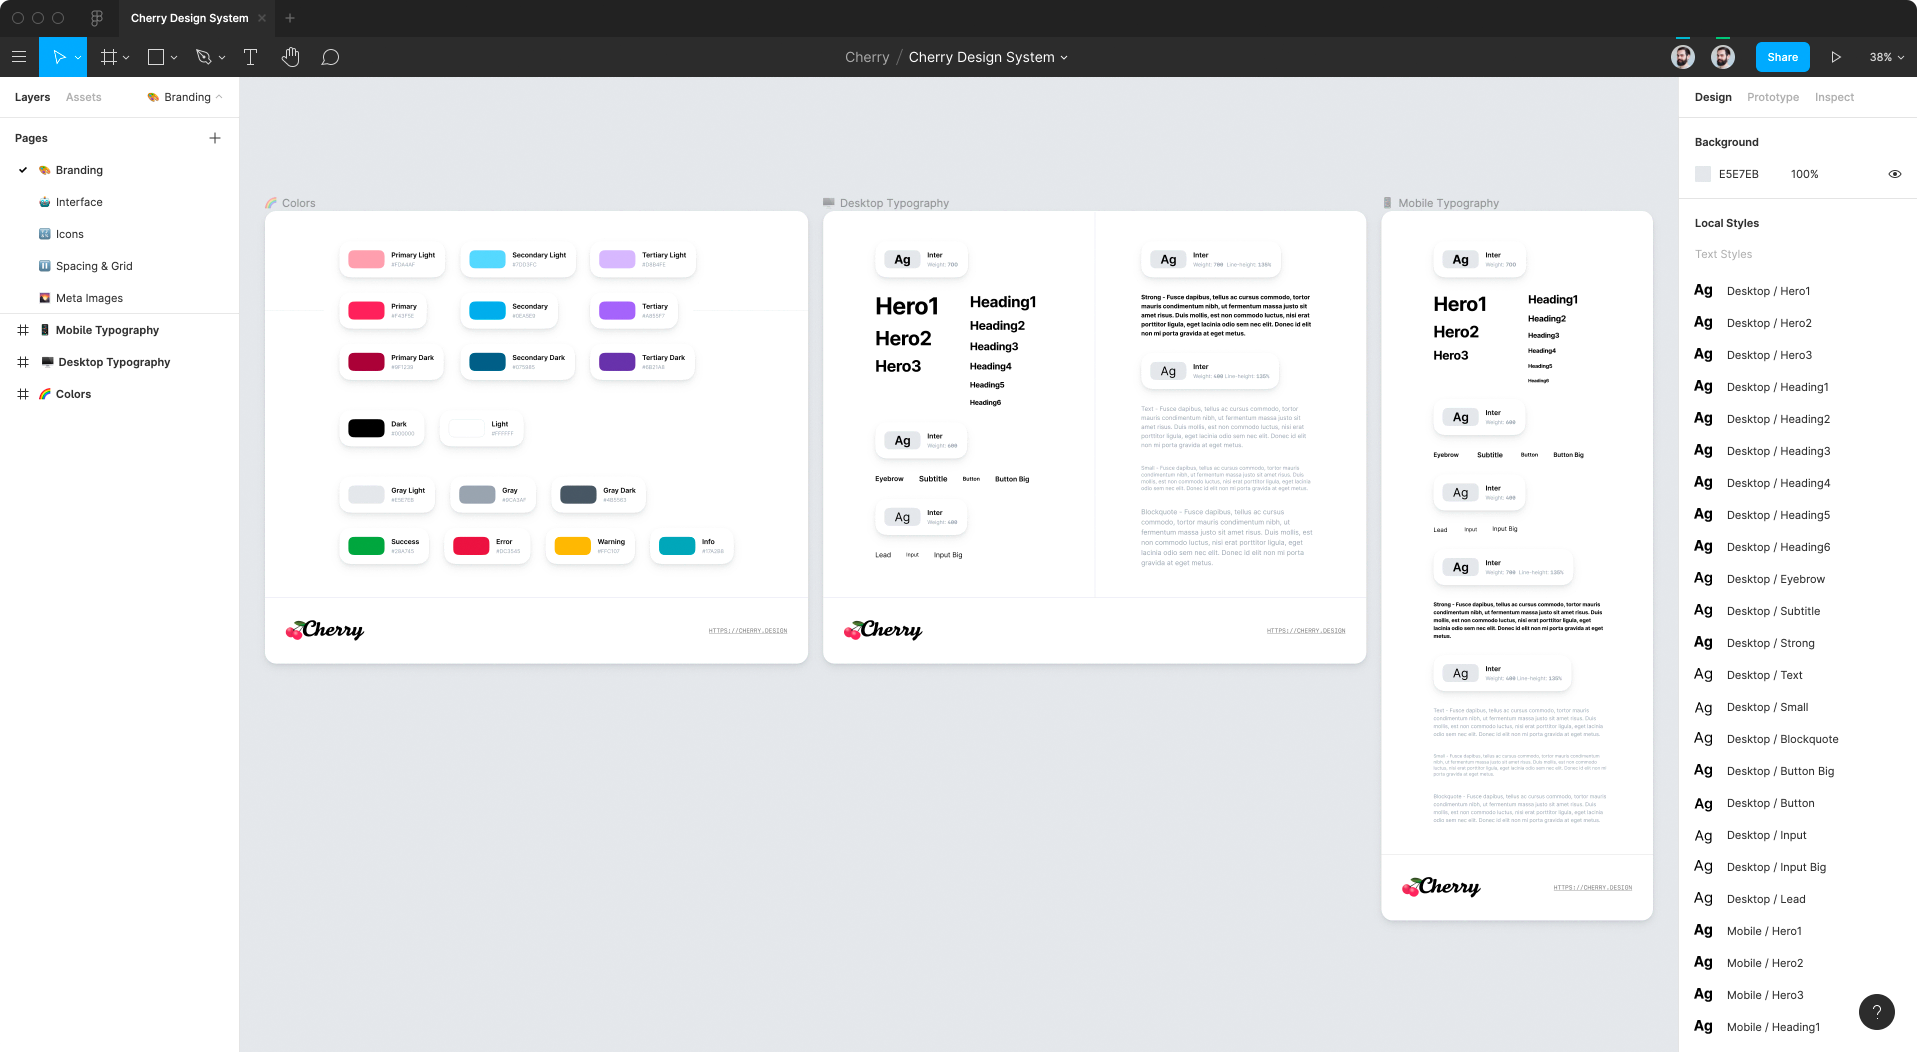
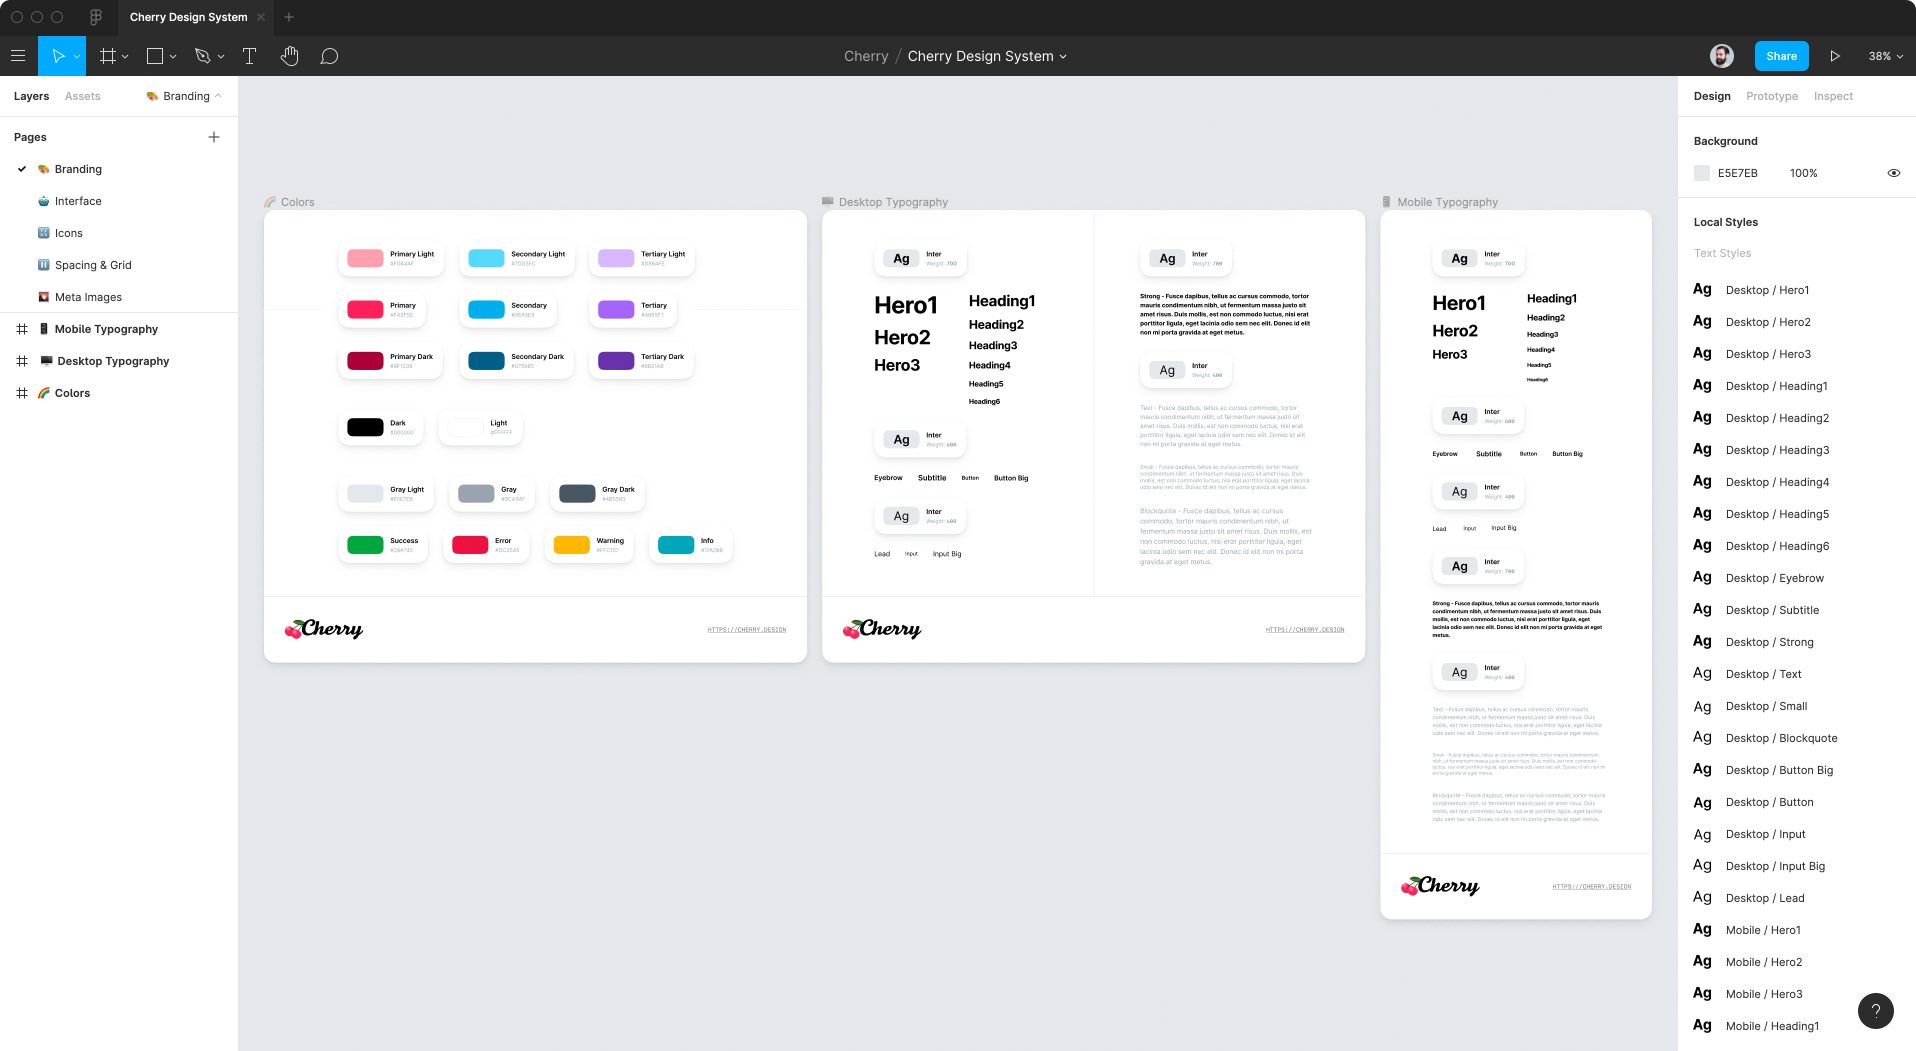
refactor: replace image and spacing

diff --git a/src/pages/documentation/design/typography.js b/src/pages/documentation/design/typography.js
@@ -251,7 +251,7 @@ function Index({ posts = [] }) {
 			<span css={(theme) => inputFontStyles(theme)}>Input</span>
 			<Space horizontal size={20} />
 			<span css={(theme) => inputBigFontStyles(theme)}>Input Big</span>
-			<Space size={20} />
+			<Space size={10} />
 			<p>
 				<strong>
 					Strong - Fusce dapibus, tellus ac cursus commodo, tortor
